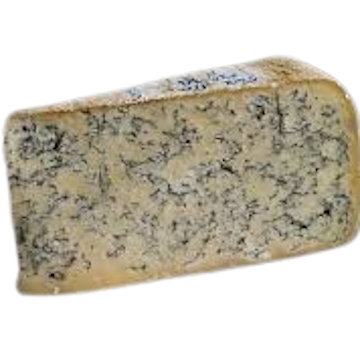
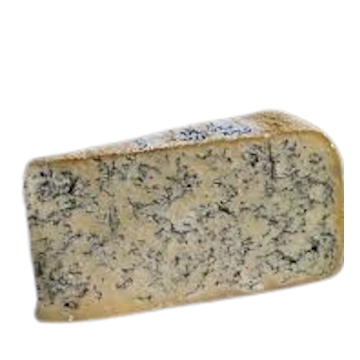
Several changes to cheese page (added more to the individual pages, touched up images to look a bit better, nav bar static, color scheme's fixed (nav bar color changed so when on chechil page it doesn't look like pee and poo.)

diff --git a/Styles/Cheese.css b/Styles/Cheese.css
@@ -8,34 +8,31 @@ header {
     text-align: center;
     font-size: 2em;
 }
-/**GO BACK AND FIX NAV**/
 nav {
-    position: fixed;
-    display: flex;
-    background-color: grey;
-    padding: 10px;
+    width: 100%;
+    padding: 0px;
     left: 0;
     margin: 0;
 }
 nav ul {
-  list-style-type: none;
-  margin: 0;
-  padding: 0;
-  overflow: hidden;
-  background-color: #553c20;
-  display: flex; 
+    list-style-type: none;
+    width: 100%;
+    margin: 0;
+    padding: 0;
+    overflow: hidden;
+    background-color: #9b7703;
+    display: flex; 
 }
 nav li a {
-  display: block;
-  color: white;
-  text-align: center;
-  padding: 14px 16px;
-  text-decoration: none;
+    display: block;
+    color: rgb(0, 0, 0);
+    text-align: center;
+    padding: 14px 16px;
+    text-decoration: none;
 }
 nav li a:hover {
-  background-color: #271c0f;
+    background-color: #271c0f;
 }
-/**FIX NAV ABOVE**/
 .container {
     display: flex;
     justify-content: space-evenly;
@@ -54,6 +51,13 @@ nav li a:hover {
     padding: 5px;
     margin: 1em;
     line-height: 100px;
+    -webkit-text-stroke: 1.5px rgb(48, 30, 8);
+}
+.TierBox a{
+    color: rgb(241, 218, 49);
+}
+.TierBox a:visited{
+    color: rgb(255, 192, 75)
 }
 .TierBox .layer2 {
     position: absolute;
@@ -103,8 +107,8 @@ nav li a:hover {
     border: 6px solid rgb(9, 26, 214);
 }
 .MiscBox {
-    background-color: rgb(127, 203, 76);
-    border: 6px solid rgb(123, 128, 55);
+    background-color: rgb(215, 155, 91);
+    border: 6px solid rgb(66, 58, 42);
     margin: 2%;
     height: fit-content;
     align-self: center;
@@ -114,4 +118,20 @@ nav li a:hover {
     display: block;
     max-width: 100%;
     max-height: 100%;
+}
+section {
+    float: left;
+    display: flex;
+    flex-direction: column;
+    width:50%;
+    height:100%;
+    gap:10px;
+}
+aside {
+    float: right;
+    display: flex;
+    flex-direction: column;
+    width:50%;
+    height:100%;
+    gap:10px;
 }

diff --git a/Fun.html b/Fun.html
@@ -22,19 +22,16 @@
                 <li><a href="CheesPg/Colby.html">Colby-Jack</a></li>
                 <li><a href="CheesPg/Provolone.html">Provolone</a></li>
                 <li><a href="CheesPg/Blue.html">Blue Cheese</a></li>
+                <li><a href="CheesPg/citation.html">Citations</a></li>
             </ul>
         </nav>
         <div class="MiscBox">
-            <h2>Third page (not done yet)</h2>
+            <h2>Cheesey Choices</h2>
+            <p>Go through several cheeses and learn more about their taste, texture, production, and locations sold!</p>
             <p>Go back to main page <a href="index.html">here</a>.</p>
-            <p>This box should include a basic description of the purpose the site holds. This site will navigate users to 10 different cheeses so they can learn more about the taste, production, and purchase locations.</p>
             <!--TODO:
             fix up colors to be appealing and not drab.
-            Also be sure to add a citations page for every image and where they were obtained.
-            For each page to add: taste, how its made, unique properties/story if any, and where it's made & places to purchase.
-            use the alt for images to link sources as citation page not made yet
-            Edit text over images to have black border around letters in order to be readable
-            continue making specialized id
+            citations page for every image and where they were from.
             change favicon-->
         </div>
         <section class="container">
@@ -79,6 +76,6 @@
                 <div class="layer2"><h2>Blue Cheese</h2></div></a>
             </div>
         </section>
-        <footer>Provide links here, one should lead to citations of images used here. should be the same across ALL pages</footer>
+        <footer><a href="CheesPg/citation.html">Citations</a></footer>
     </body>
 </html>

diff --git a/CheesPg/Chechil.html b/CheesPg/Chechil.html
@@ -8,8 +8,29 @@
         <title>Third Page</title>
     </head>
     <body id="YellowBox">
-        <nav>Universal nav bar, copy and paste exact same contents as main cheese page alongside title.</nav>
-        <p>Test</p>
-        <p>Each cheese page should have the following: learn more about the taste, production, and purchase locations.</p>
+        <nav>
+            <ul>
+                <li><a href="../Fun.html">Cheese Cottage</a></li>
+                <li><a href="CheesPg/Chechil.html">Chechil</a></li>
+                <li><a href="CheesPg/Gouda.html">Gouda</a></li>
+                <li><a href="CheesPg/Mozzarella.html">Mozzarella</a></li>
+                <li><a href="CheesPg/Parmesan.html">Parmesan</a></li>
+                <li><a href="CheesPg/Cheddar.html">Cheddar</a></li>
+                <li><a href="CheesPg/Feta.html">Feta</a></li>
+                <li><a href="CheesPg/Ricotta.html">Ricotta</a></li>
+                <li><a href="CheesPg/Colby.html">Colby-Jack</a></li>
+                <li><a href="CheesPg/Provolone.html">Provolone</a></li>
+                <li><a href="CheesPg/Blue.html">Blue Cheese</a></li>
+                <li><a href="CheesPg/citation.html">Citations</a></li>
+            </ul>
+        </nav>
+        <aside><img src="../Images/Chechill.png" alt="Chechil cheese."></aside>
+        <section>
+            <h4>Chechil Cheese</h4>
+            <p>Sentence about taste and texture of cheese.</p>
+            <p>Process of how the cheese is made.</p>
+            <p>Locations and if it can be purchased within SC</p>
+        </section>
+        <a href="../Fun.html">Back to homepage</a>
     </body>
 </html>

diff --git a/CheesPg/Feta.html b/CheesPg/Feta.html
@@ -8,8 +8,28 @@
         <title>Third Page</title>
     </head>
     <body id="White3Box">
-        <nav>Universal nav bar, copy and paste exact same contents as main cheese page alongside title.</nav>
-        <p>Test</p>
-        <p>Each cheese page should have the following: learn more about the taste, production, and purchase locations.</p>
+        <nav>
+            <ul>
+                <li><a href="../Fun.html">Cheese Cottage</a></li>
+                <li><a href="CheesPg/Chechil.html">Chechil</a></li>
+                <li><a href="CheesPg/Gouda.html">Gouda</a></li>
+                <li><a href="CheesPg/Mozzarella.html">Mozzarella</a></li>
+                <li><a href="CheesPg/Parmesan.html">Parmesan</a></li>
+                <li><a href="CheesPg/Cheddar.html">Cheddar</a></li>
+                <li><a href="CheesPg/Feta.html">Feta</a></li>
+                <li><a href="CheesPg/Ricotta.html">Ricotta</a></li>
+                <li><a href="CheesPg/Colby.html">Colby-Jack</a></li>
+                <li><a href="CheesPg/Provolone.html">Provolone</a></li>
+                <li><a href="CheesPg/Blue.html">Blue Cheese</a></li>
+                <li><a href="CheesPg/citation.html">Citations</a></li>
+            </ul>
+        </nav>
+        <aside><img src="../Images/Feta.png" alt="Feta cheese."></aside>
+        <section>
+            <h4>Feta Cheese</h4>
+            <p>Sentence about taste and texture of cheese.</p>
+            <p>Process of how the cheese is made.</p>
+            <p>Locations and if it can be purchased within SC</p>
+        </section>
     </body>
 </html>

diff --git a/CheesPg/Ricotta.html b/CheesPg/Ricotta.html
@@ -8,7 +8,22 @@
         <title>Third Page</title>
     </head>
     <body id="WhiteBox">
-        <nav>Universal nav bar, copy and paste exact same contents as main cheese page alongside title.</nav>
+        <nav>
+            <ul>
+                <li><a href="../Fun.html">Cheese Cottage</a></li>
+                <li><a href="CheesPg/Chechil.html">Chechil</a></li>
+                <li><a href="CheesPg/Gouda.html">Gouda</a></li>
+                <li><a href="CheesPg/Mozzarella.html">Mozzarella</a></li>
+                <li><a href="CheesPg/Parmesan.html">Parmesan</a></li>
+                <li><a href="CheesPg/Cheddar.html">Cheddar</a></li>
+                <li><a href="CheesPg/Feta.html">Feta</a></li>
+                <li><a href="CheesPg/Ricotta.html">Ricotta</a></li>
+                <li><a href="CheesPg/Colby.html">Colby-Jack</a></li>
+                <li><a href="CheesPg/Provolone.html">Provolone</a></li>
+                <li><a href="CheesPg/Blue.html">Blue Cheese</a></li>
+                <li><a href="CheesPg/citation.html">Citations</a></li>
+            </ul>
+        </nav>
         <p>Test</p>
         <p>Each cheese page should have the following: learn more about the taste, production, and purchase locations.</p>
     </body>

diff --git a/CheesPg/Blue.html b/CheesPg/Blue.html
@@ -8,7 +8,22 @@
         <title>Third Page</title>
     </head>
     <body id="BlueBox">
-        <nav>Universal nav bar, copy and paste exact same contents as main cheese page alongside title.</nav>
+        <nav>
+            <ul>
+                <li><a href="../Fun.html">Cheese Cottage</a></li>
+                <li><a href="CheesPg/Chechil.html">Chechil</a></li>
+                <li><a href="CheesPg/Gouda.html">Gouda</a></li>
+                <li><a href="CheesPg/Mozzarella.html">Mozzarella</a></li>
+                <li><a href="CheesPg/Parmesan.html">Parmesan</a></li>
+                <li><a href="CheesPg/Cheddar.html">Cheddar</a></li>
+                <li><a href="CheesPg/Feta.html">Feta</a></li>
+                <li><a href="CheesPg/Ricotta.html">Ricotta</a></li>
+                <li><a href="CheesPg/Colby.html">Colby-Jack</a></li>
+                <li><a href="CheesPg/Provolone.html">Provolone</a></li>
+                <li><a href="CheesPg/Blue.html">Blue Cheese</a></li>
+                <li><a href="CheesPg/citation.html">Citations</a></li>
+            </ul>
+        </nav>
         <p>Test</p>
         <p>Each cheese page should have the following: learn more about the taste, production, and purchase locations.</p>
     </body>

diff --git a/CheesPg/Cheddar.html b/CheesPg/Cheddar.html
@@ -8,7 +8,22 @@
         <title>Third Page</title>
     </head>
     <body id="ChedBox">
-        <nav>Universal nav bar, copy and paste exact same contents as main cheese page alongside title.</nav>
+        <nav>
+            <ul>
+                <li><a href="../Fun.html">Cheese Cottage</a></li>
+                <li><a href="CheesPg/Chechil.html">Chechil</a></li>
+                <li><a href="CheesPg/Gouda.html">Gouda</a></li>
+                <li><a href="CheesPg/Mozzarella.html">Mozzarella</a></li>
+                <li><a href="CheesPg/Parmesan.html">Parmesan</a></li>
+                <li><a href="CheesPg/Cheddar.html">Cheddar</a></li>
+                <li><a href="CheesPg/Feta.html">Feta</a></li>
+                <li><a href="CheesPg/Ricotta.html">Ricotta</a></li>
+                <li><a href="CheesPg/Colby.html">Colby-Jack</a></li>
+                <li><a href="CheesPg/Provolone.html">Provolone</a></li>
+                <li><a href="CheesPg/Blue.html">Blue Cheese</a></li>
+                <li><a href="CheesPg/citation.html">Citations</a></li>
+            </ul>
+        </nav>
         <p>Test</p>
         <p>Each cheese page should have the following: learn more about the taste, production, and purchase locations.</p>
     </body>

diff --git a/CheesPg/Colby.html b/CheesPg/Colby.html
@@ -8,7 +8,22 @@
         <title>Third Page</title>
     </head>
     <body id="JackBox">
-        <nav>Universal nav bar, copy and paste exact same contents as main cheese page alongside title.</nav>
+        <nav>
+            <ul>
+                <li><a href="../Fun.html">Cheese Cottage</a></li>
+                <li><a href="CheesPg/Chechil.html">Chechil</a></li>
+                <li><a href="CheesPg/Gouda.html">Gouda</a></li>
+                <li><a href="CheesPg/Mozzarella.html">Mozzarella</a></li>
+                <li><a href="CheesPg/Parmesan.html">Parmesan</a></li>
+                <li><a href="CheesPg/Cheddar.html">Cheddar</a></li>
+                <li><a href="CheesPg/Feta.html">Feta</a></li>
+                <li><a href="CheesPg/Ricotta.html">Ricotta</a></li>
+                <li><a href="CheesPg/Colby.html">Colby-Jack</a></li>
+                <li><a href="CheesPg/Provolone.html">Provolone</a></li>
+                <li><a href="CheesPg/Blue.html">Blue Cheese</a></li>
+                <li><a href="CheesPg/citation.html">Citations</a></li>
+            </ul>
+        </nav>
         <p>Test</p>
         <p>Each cheese page should have the following: learn more about the taste, production, and purchase locations.</p>
     </body>

diff --git a/CheesPg/Mozzarella.html b/CheesPg/Mozzarella.html
@@ -8,7 +8,22 @@
         <title>Third Page</title>
     </head>
     <body id="MozzBox">
-        <nav>Universal nav bar, copy and paste exact same contents as main cheese page alongside title.</nav>
+        <nav>
+            <ul>
+                <li><a href="../Fun.html">Cheese Cottage</a></li>
+                <li><a href="CheesPg/Chechil.html">Chechil</a></li>
+                <li><a href="CheesPg/Gouda.html">Gouda</a></li>
+                <li><a href="CheesPg/Mozzarella.html">Mozzarella</a></li>
+                <li><a href="CheesPg/Parmesan.html">Parmesan</a></li>
+                <li><a href="CheesPg/Cheddar.html">Cheddar</a></li>
+                <li><a href="CheesPg/Feta.html">Feta</a></li>
+                <li><a href="CheesPg/Ricotta.html">Ricotta</a></li>
+                <li><a href="CheesPg/Colby.html">Colby-Jack</a></li>
+                <li><a href="CheesPg/Provolone.html">Provolone</a></li>
+                <li><a href="CheesPg/Blue.html">Blue Cheese</a></li>
+                <li><a href="CheesPg/citation.html">Citations</a></li>
+            </ul>
+        </nav>
         <p>Test</p>
         <p>Each cheese page should have the following: learn more about the taste, production, and purchase locations.</p>
     </body>

diff --git a/CheesPg/Gouda.html b/CheesPg/Gouda.html
@@ -8,7 +8,22 @@
         <title>Third Page</title>
     </head>
     <body id="RedBox">
-        <nav>Universal nav bar, copy and paste exact same contents as main cheese page alongside title.</nav>
+        <nav>
+            <ul>
+                <li><a href="../Fun.html">Cheese Cottage</a></li>
+                <li><a href="CheesPg/Chechil.html">Chechil</a></li>
+                <li><a href="CheesPg/Gouda.html">Gouda</a></li>
+                <li><a href="CheesPg/Mozzarella.html">Mozzarella</a></li>
+                <li><a href="CheesPg/Parmesan.html">Parmesan</a></li>
+                <li><a href="CheesPg/Cheddar.html">Cheddar</a></li>
+                <li><a href="CheesPg/Feta.html">Feta</a></li>
+                <li><a href="CheesPg/Ricotta.html">Ricotta</a></li>
+                <li><a href="CheesPg/Colby.html">Colby-Jack</a></li>
+                <li><a href="CheesPg/Provolone.html">Provolone</a></li>
+                <li><a href="CheesPg/Blue.html">Blue Cheese</a></li>
+                <li><a href="CheesPg/citation.html">Citations</a></li>
+            </ul>
+        </nav>
         <p>Test</p>
         <p>Each cheese page should have the following: learn more about the taste, production, and purchase locations.</p>
     </body>

diff --git a/CheesPg/Parmesan.html b/CheesPg/Parmesan.html
@@ -8,7 +8,22 @@
         <title>Third Page</title>
     </head>
     <body id="ParBox">
-        <nav>Universal nav bar, copy and paste exact same contents as main cheese page alongside title.</nav>
+        <nav>
+            <ul>
+                <li><a href="../Fun.html">Cheese Cottage</a></li>
+                <li><a href="CheesPg/Chechil.html">Chechil</a></li>
+                <li><a href="CheesPg/Gouda.html">Gouda</a></li>
+                <li><a href="CheesPg/Mozzarella.html">Mozzarella</a></li>
+                <li><a href="CheesPg/Parmesan.html">Parmesan</a></li>
+                <li><a href="CheesPg/Cheddar.html">Cheddar</a></li>
+                <li><a href="CheesPg/Feta.html">Feta</a></li>
+                <li><a href="CheesPg/Ricotta.html">Ricotta</a></li>
+                <li><a href="CheesPg/Colby.html">Colby-Jack</a></li>
+                <li><a href="CheesPg/Provolone.html">Provolone</a></li>
+                <li><a href="CheesPg/Blue.html">Blue Cheese</a></li>
+                <li><a href="CheesPg/citation.html">Citations</a></li>
+            </ul>
+        </nav>
         <p>Test</p>
         <p>Each cheese page should have the following: learn more about the taste, production, and purchase locations.</p>
     </body>

diff --git a/CheesPg/citation.html b/CheesPg/citation.html
@@ -7,7 +7,7 @@
         <link rel="icon" type="png" href="../Images/favicon32.png">
         <title>Third Page</title>
     </head>
-    <body id="White2Box">
+    <body id="">
         <nav>
             <ul>
                 <li><a href="../Fun.html">Cheese Cottage</a></li>
